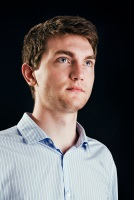
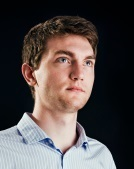
Tune photo size and position

diff --git a/css/style.css b/css/style.css
@@ -89,17 +89,18 @@ PRESENTATION
 *******************************************************************************/
 
 .presentation-item {
+  position: relative;
   margin: 0 auto;
   margin-top: 10px;
 }
 
 #photo {
-  position: absolute;
+  position: relative;;
   width: 150px;
   height: 200px;
-  right: 0px;
-  top: -50px;
   overflow: hidden;
+  float: right;
+  margin-top: 0px;
 }
 
 #presentation-text {

diff --git a/index.php b/index.php
@@ -18,31 +18,33 @@
 			Thomas Brichart
 		</div>
 		<div class="section-content">
-			<div id="address" class="presentation-item">
-				Institutt for Energiteknikk<br />
-				Instituttveien 18<br />
-				P.O. Box 40<br />
-				2027 Kjeller, Norway
-			</div>
-			<div id="phone" class="presentation-item">
-				+47 454 56 066
-			</div>
-			<div id="email" class="presentation-item">
-				<a href="mailto:thomas.brichart@ife.no">thomas.brichart[at]ife.no</a>
-			</div>
-			<div id="networks" class="presentation-item">
-				<a title="Look me up on Linkedin" href="https://no.linkedin.com/pub/thomas-brichart/76/294/2b1">
-      		<img src="img/linkedin.png" alt="Look me up on Linkedin"/>
-        </a>
-				<a title="Look me up on Viadeo" href="http://www.viadeo.com/fr/profile/thomas.brichart">
-					<img src="img/viadeo.png" alt="Look me up on Viadeo"/>
-				</a>
-				<a title="Follow me on ResearchGate" href="https://www.researchgate.net/profile/Thomas_Brichart?cp=shp">
-					<img src="img/researchgate.png" alt="Follow me on ResearchGate" />
-				</a>
-			</div>
 			<div id="photo" class="presentation-item">
 				<img src="img/photo_me.jpg" alt="Photo de Thomas Brichart" />
+			</div>
+			<div>
+				<div id="address" class="presentation-item">
+					Institutt for Energiteknikk<br />
+					Instituttveien 18<br />
+					P.O. Box 40<br />
+					2027 Kjeller, Norway
+				</div>
+				<div id="phone" class="presentation-item">
+					+47 454 56 066
+				</div>
+				<div id="email" class="presentation-item">
+					<a href="mailto:thomas.brichart@ife.no">thomas.brichart[at]ife.no</a>
+				</div>
+				<div id="networks" class="presentation-item">
+					<a title="Look me up on Linkedin" href="https://no.linkedin.com/pub/thomas-brichart/76/294/2b1">
+	      		<img src="img/linkedin.png" alt="Look me up on Linkedin"/>
+	        </a>
+					<a title="Look me up on Viadeo" href="http://www.viadeo.com/fr/profile/thomas.brichart">
+						<img src="img/viadeo.png" alt="Look me up on Viadeo"/>
+					</a>
+					<a title="Follow me on ResearchGate" href="https://www.researchgate.net/profile/Thomas_Brichart?cp=shp">
+						<img src="img/researchgate.png" alt="Follow me on ResearchGate" />
+					</a>
+				</div>
 			</div>
 			<div id="presentation-text" class="presentation-item">
 				<p>
